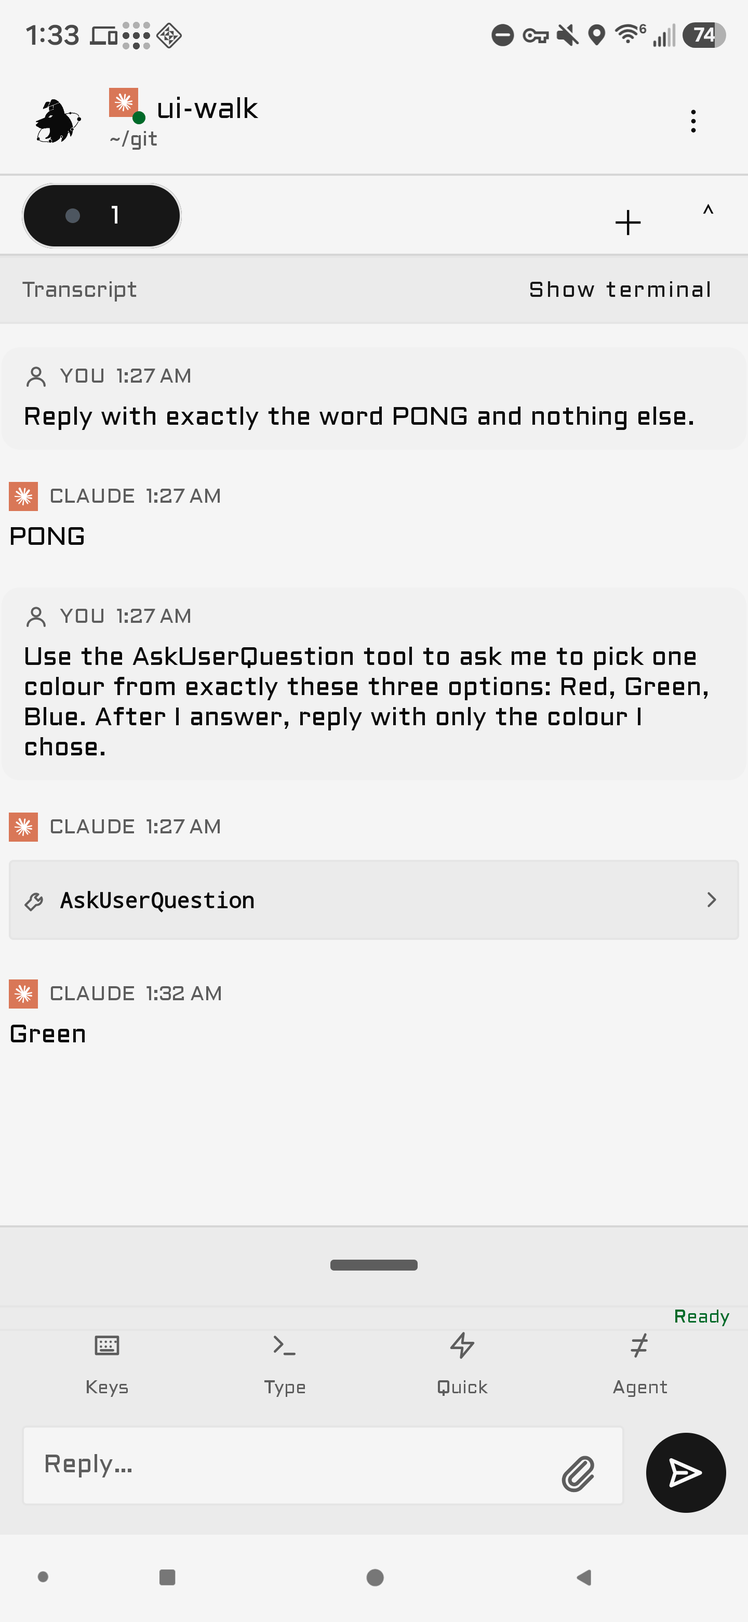
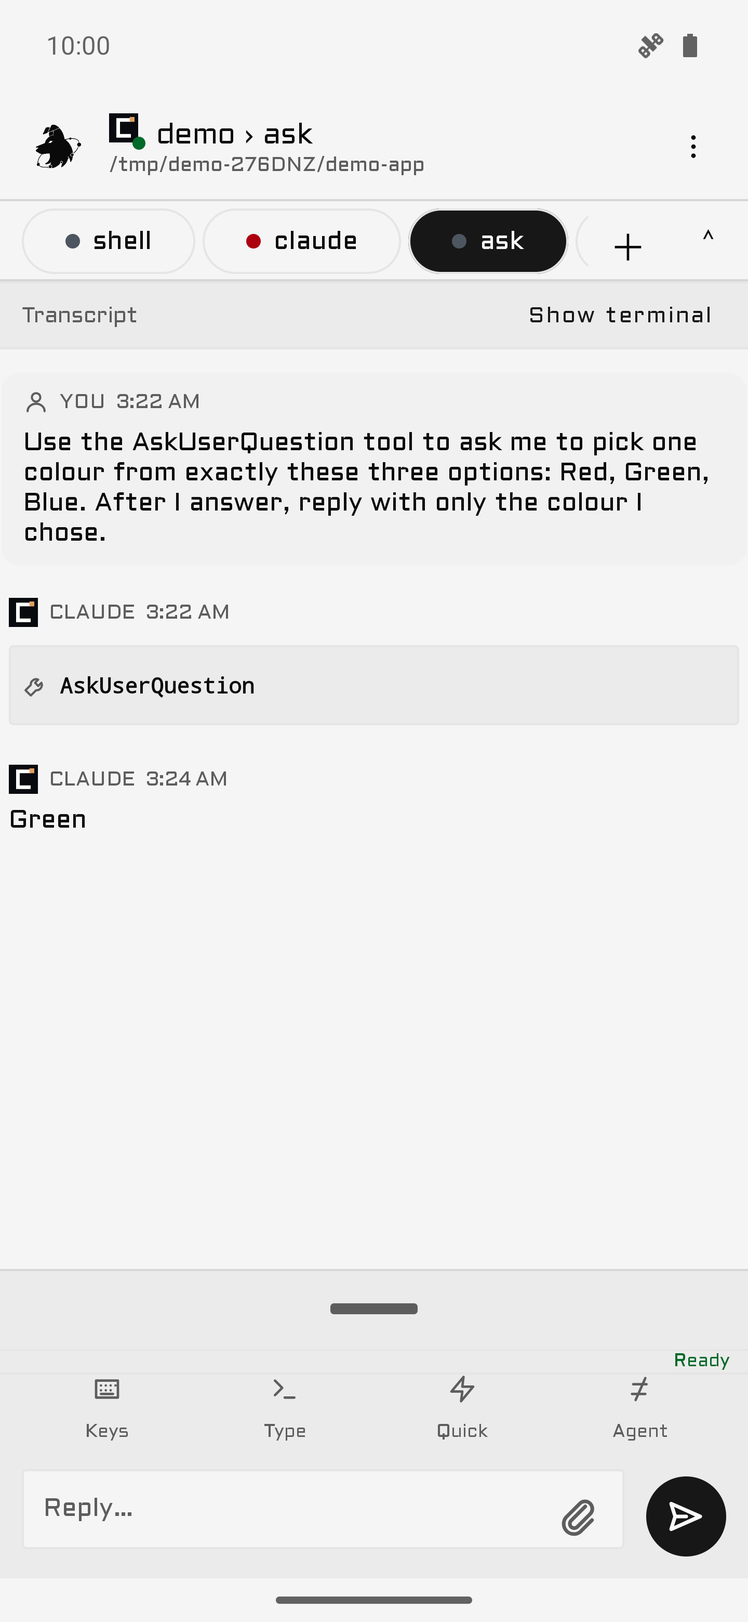
docs(android): acceptance captures use a synthetic session
Claude-Session: https://claude.ai/code/session_01CSE8G3jkjVTnTEWahXMz7Z

diff --git a/ANDROID_CLAUDE_PANE_UX_PROPOSAL.md b/ANDROID_CLAUDE_PANE_UX_PROPOSAL.md
@@ -8,33 +8,41 @@ walk and the resulting decisions.
 
 ## 1. What the phone showed on 2026-09-10
 
-`android/acceptance/2026-09-10-claude-pane-mirror.png` is a Claude pane on the S25 Ultra after a
-short conversation. It is readable, and it is not an acceptable Claude Code display. Read as a
-whole it is a terminal dump with a chat composer under it:
+> **Note.** The 2026-09-10 and 2026-09-11 captures originally showed a real working session, so
+> they were replaced on 2026-10-08 with captures of the current Android build against a synthetic
+> demo session (a fresh temporary git repo, one Claude pane asked for a file listing and a README
+> outline, one shell pane). The files keep their names. This section and the appendices record
+> what the original 2026-09-10 captures showed; where a replacement cannot reproduce a historical
+> state, the text says so.
+
+The original `android/acceptance/2026-09-10-claude-pane-mirror.png` was a Claude pane on the
+S25 Ultra after a short conversation. The file is now a synthetic recapture of the terminal view
+after the fixes below. The original was readable, and it was not an acceptable Claude Code
+display. Read as a whole it was a terminal dump with a chat composer under it:
 
 - **Double wrapping.** Claude renders into a terminal about 100 columns wide and wraps its own
   prose there, indenting continuation lines by two spaces. The phone shows about 65 columns at
-  10 sp and wraps every one of those lines again. Orphan fragments ("rather than re-arguing it,
-  which is") sit on their own line, insight boxes lose their rules, bullets get a continuation
-  indent mid-sentence.
-- **The statusline is raw.** "121350 tokens" floats alone; the git branch `/rc` is orphaned onto
-  its own line by the same re-wrap; "bypass permissions on (shift+tab to cycle) · ← for agents" is
-  a mono paragraph. The web client re-surfaces these rows as styled chrome under the mirror.
-- **Tool rows lose their shape.** "● Read(…)" with its "⎿ Read 519 lines" child is a tree in the
-  terminal. After wrapping, and in the system mono face, the connectors sit at odd offsets and the
-  path is cut mid-word.
-- **The pane title appears twice**, in the header and again as the collapsed tab-strip label
+  10 sp and wrapped every one of those lines again. Orphan fragments sat on their own line,
+  insight boxes lost their rules, bullets got a continuation indent mid-sentence.
+- **The statusline was raw.** A token count floated alone; the git branch and `/rc` were orphaned
+  onto their own line by the same re-wrap; the permission-mode hint was a mono paragraph. The web
+  client re-surfaces these rows as styled chrome under the mirror.
+- **Tool rows lost their shape.** A "● Read(…)" row with its "⎿ Read N lines" child is a tree in
+  the terminal. After wrapping, and in the system mono face, the connectors sat at odd offsets and
+  the path was cut mid-word.
+- **The pane title appeared twice**, in the header and again as the collapsed tab-strip label
   directly beneath it.
-- **The user turn is a grey slab** with a faint marker, indistinguishable from a selection
-  artefact. Assistant prose, insight boxes and tool output all render in one weight and size.
-- **It is a light-grey mono wall.** Claude's own colour cues survive, but at 10 sp on a 6.9 inch
-  screen the transcript reads as a log file, not a conversation.
+- **The user turn was a grey slab** with a faint marker, indistinguishable from a selection
+  artefact. Assistant prose, insight boxes and tool output all rendered in one weight and size.
+- **It was a light-grey mono wall.** Claude's own colour cues survive, but at 10 sp on a 6.9 inch
+  screen the transcript read as a log file, not a conversation.
 
-`android/acceptance/2026-09-10-claude-pane-history.png` is the same pane's History screen, fed by
-Claude's session log through `GET /api/pane/:id/history`: user turns as cards with a name and
-time, assistant prose in the app face, tool calls as collapsible rows, a match counter and
-user-turn navigation. It looks like a native app. The two screens come from the same session;
-only the source differs.
+`android/acceptance/2026-09-10-claude-pane-history.png` is the History screen of the synthetic
+demo pane; the original was the History screen of the same real pane as the mirror capture. It is fed by Claude's
+session log through `GET /api/pane/:id/history`: the user turn as a card with a name and time,
+assistant prose in the app face, tool calls as collapsible rows, and a find button with a
+counter. It looks like a native app. The two screens come from the same session; only the source
+differs.
 
 ## 2. Why the mirror is the wrong default for an agent pane on a phone
 
@@ -111,7 +119,8 @@ Zen, tap-to-type and the buffer affordances follow whichever body is on screen.
 > **Note.** Walked on the S25 Ultra on 2026-09-10 and 2026-09-11 after the plan and its
 > follow-up fixes landed: 193 steps pass and none fail. The ledger, the defects the walk found
 > and fixed, and the mapping of steps the plan moved or retired are in
-> `android/acceptance/2026-09-11-ux-walk.md`; the captures are `android/acceptance/2026-09-11-ux-*.png`.
+> `android/acceptance/2026-09-11-ux-walk.md`; the captures are `android/acceptance/2026-09-11-ux-*.png`,
+> recaptured on 2026-10-08 against a synthetic demo session because the originals showed a real one.
 
 - **Passes.** The Claude pane, re-captured, shows the conversation as cards and prose
   (`2026-09-11-ux-transcript.png`); the terminal view joins soft wraps so no paragraph wraps
@@ -119,7 +128,7 @@ Zen, tap-to-type and the buffer affordances follow whichever body is on screen.
 - **Passes.** An AskUserQuestion raised from the phone switches the body to the mirror with the
   prompt panel, and answering it switches back, without leaving the pane
   (`2026-09-11-ux-dialog-mirror.png`, `2026-09-11-ux-after-answer.png`). A panel the grammar does
-  not recognise, such as `/cost`, is **not** auto-detected: the body stays on the transcript, and
+  not recognise, such as `/theme`, is **not** auto-detected: the body stays on the transcript, and
   the mirror only shows that panel after the operator manually taps "Show terminal" in the pane
   actions sheet (`2026-09-11-ux-panel-mirror.png`).
 - **Passes.** A shell pane, and an agent pane with no journal yet, show the plain mirror with no
@@ -157,9 +166,11 @@ The 2026-09-11 re-walk fixed and rechecked a number of these screens; see
 `android/acceptance/2026-09-11-ux-walk.md` for the dated ledger and captures. Items not covered by
 that ledger remain observations from the original walk rather than verified current defects.
 
-Reviewed from the captures taken during the two S25 Ultra walks on 2026-09-10 (all under
-`android/acceptance/2026-09-10-*.png`; the walk's full set sits in `/tmp/s25/` on workstation). The
-question for each screen is the one asked of the Claude pane: does it read as a native app that
+Reviewed from the captures taken during the two S25 Ultra walks on 2026-09-10. The captures cited
+here are kept under `android/acceptance/2026-09-10-*.png` as synthetic recaptures of the current
+build, because the originals showed a real session and the walk's full set was never published.
+Observations quote the original captures; where the replacement cannot show the same state, the
+bullet says what it shows instead. The question for each screen is the one asked of the Claude pane: does it read as a native app that
 happens to talk to terminals, or as a terminal tool wearing an app's chrome? Functional defects
 found on the walk are already fixed and committed; what follows is design.
 
@@ -169,31 +180,34 @@ The strongest screen. "Nothing needs you", then Needs input, Ready · unseen, Wo
 Spaces: the triage order is right, the cards are quiet, and a blocked pane surfaces in red with a
 badge on Spaces. What holds it back:
 
-- **Titles are session-log names, truncated.** Four of five Working rows read "Codex session log
-  01a0…" with the identifier cut by the ellipsis, so the only distinguishing text is the space
-  beneath. The row should lead with the space and tab and demote the agent's auto-title, or
-  truncate in the middle so the tail of the id survives.
+- **Titles are session-log names, truncated.** In the original capture four of five Working rows
+  read "Codex session log 01a0…" with the identifier cut by the ellipsis, so the only
+  distinguishing text was the space beneath. The row should lead with the space and tab and demote
+  the agent's auto-title, or truncate in the middle so the tail of the id survives. The synthetic
+  recapture has short demo titles and does not reproduce the truncation.
 - **Two ways to collapse, drawn two ways.** Recent has an up-arrow toggle at the left; Spaces has
   the same toggle plus a "+" at the right; Working has none. The sort control ("Newest ↓") is a
   text button in a header row otherwise made of icons.
-- **The Spaces list is the app's longest surface and the least informative.** Fourteen rows of
-  name, age and a pane count in a grey pill. Nothing says which panes are working, blocked or
+- **The Spaces list is the app's longest surface and the least informative.** In the original,
+  fourteen rows of name, age and a pane count in a grey pill (the recapture has two spaces). Nothing says which panes are working, blocked or
   done inside a space, which is the question the operator has when scanning it.
 - **The build stamp** ("Android app build 1.5.1-debug") sits in the scroll body of every list
   screen. It belongs in Settings only.
 
 ### A.2 Space (`2026-09-10-space.png`)
 
-Three horizontal strips stack under the header before any content: SPACES chips, then tab chips,
-then the overview title. That is 40% of the first screen spent on navigation the dashboard
-already did. Specifics:
+In the original capture three horizontal strips stacked under the header before any content:
+SPACES chips, then tab chips, then the overview title. That was 40% of the first screen spent on
+navigation the dashboard already did. The synthetic recapture shows the current build, which has
+the header, one tab strip and the pane cards, and no spaces strip or overview card. Specifics of
+the original:
 
 - **The spaces strip repeats the dashboard.** A "← Back" chip and every other space, when the
   operator just chose this one. A back arrow in the header and the current space's name is
   enough; the sibling switch belongs in the pane switcher, which already lists them.
-- **The tab chips truncate at the screen edge** ("track-guide-prose" clipped, the "+" half
-  visible) with no affordance that the row scrolls.
-- **The overview card** ("StormLens · 3 tabs · 3 panes") restates the header.
+- **The tab chips truncate at the screen edge** (the last chip clipped, the "+" half visible)
+  with no affordance that the row scrolls.
+- **The overview card** ("<space> · N tabs · M panes") restated the header.
 - **Pane cards say "shell" three times.** A card should show something that distinguishes the
   panes: the last command, the cwd difference, or the tab name in the card rather than as a
   small grey label above it.
@@ -212,10 +226,12 @@ Better than the Claude pane because a shell's grid is the information. Still:
 
 ### A.4 Keys drawer (`2026-09-10-keys-drawer.png`)
 
-Functionally complete and now correct; visually it is the busiest surface in the app. In one
-drawer: a Keys/123 segment, a staged-chip row with Send keys and Clear, eight key buttons, a full
-width Space bar, three modifier toggles, a Presets disclosure, a Function keys disclosure. Opened,
-it covers two thirds of the screen and leaves one line of terminal. The modifiers read as plain
+The original was functionally complete and now correct; visually it was the busiest surface in the
+app. In one drawer: a Keys/123 segment, a staged-chip row with Send keys and Clear, eight key
+buttons, a full width Space bar, three modifier toggles, a Presets disclosure, a Function keys
+disclosure. Opened, it covered two thirds of the screen and left one line of terminal. The
+synthetic recapture shows the current compact drawer: one row of keys, the modifiers and a More
+button that opens the presets sheet. The modifiers read as plain
 text ("⇧ Shift  Ctrl  Alt") until armed, so their tappability is not visible. A phone keyboard
 solves the same problem with one row and a long-press: Ctrl and Alt as sticky keys on the mode
 row, arrows and Esc/Tab/Enter as one compact row, Presets and F-keys behind a single "More".
@@ -233,8 +249,10 @@ row, arrows and Esc/Tab/Enter as one compact row, Presets and F-keys behind a si
 ### A.6 Switcher (`2026-09-10-switcher.png`)
 
 Rows carry space · tab on one line and agent · title on the next, so the identifier walls from
-the dashboard return here at three lines per row. The current pane is not marked. Working is a
-plain grey heading; Recent is a collapsible pill; the two groups look like different controls.
+the dashboard return here at three lines per row. In the original the current pane was not
+marked; the synthetic recapture shows the current build, which marks it with a dark pill. Working
+is a plain grey heading; Recent is a collapsible pill; the two groups look like different
+controls.
 
 ### A.7 History (`2026-09-10-claude-pane-history.png`)
 
@@ -300,9 +318,11 @@ A missed. Cited captures are saved under `android/acceptance/`.
 
 ### B.1 Space (`2026-09-10-space-strip-missing-current.png`)
 
-- **The spaces strip does not contain the current space.** Viewing `collie-ui-test`, the strip
-  reads "← Back · StormLens · flock · pitwall · pen …" and the current space is off-screen to the
-  right, unselected. A strip that exists to show where you are does not show where you are.
+- **The spaces strip did not contain the current space.** In the original capture the strip read
+  "← Back" followed by other spaces, and the current space was off-screen to the right,
+  unselected. A strip that exists to show where you are did not show where you are. That state
+  cannot be reproduced: the current build has no sibling strip, so the replacement capture shows
+  the Space screen with all of its tabs.
 - The current space's chips carry status dots and agent icons on the Space screen but the strip
   chips carry only a dot, so the two rows encode the same panes two ways.
 
@@ -317,15 +337,20 @@ A missed. Cited captures are saved under `android/acceptance/`.
 - **Type mode says the same thing twice and hides its stop.** The field hint becomes "Typing
   directly into terminal…" and a second label "Direct terminal typing armed" appears under it,
   while the Send button, now a stop control, keeps the paper-plane icon.
-- **An attached image is a file path in the draft** (`2026-09-10-upload-path-in-draft.png`): after
-  the picker, the composer holds `$HOME/.local/state/collie/uploads/wM_p1-….png` across three
-  lines with "Image added — path in message." beneath. That is the bridge's storage location shown
-  to the operator; an attachment should be a chip or thumbnail the send expands.
+- **An attached image was a file path in the draft**: after the picker, the original composer held
+  the bridge's upload path across three lines with "Image added — path in message." beneath.
+  That was the bridge's storage location shown to the operator; an attachment should be a chip or
+  thumbnail the send expands. The current build does that, and
+  `2026-09-10-upload-path-in-draft.png` is a synthetic recapture of it: the draft holds only the
+  operator's words and the attachment is an "Image" chip with a thumbnail beneath the composer.
 - **Staged key chips overflow with no cue.** Four chips fill the row and the fourth is clipped at
   the edge; the row scrolls, but nothing indicates it.
-- **Presets expanded leaves zero terminal rows** (`2026-09-10-keys-presets-no-terminal.png`). The
-  drawer, the mode row and the composer take the whole screen; the terminal the keys act on is not
-  visible at all, so the effect of Ctrl R or Ctrl U cannot be seen without closing the drawer.
+- **Presets expanded left zero terminal rows.** In the original the drawer, the mode row and the
+  composer took the whole screen; the terminal the keys act on was not visible at all, so the
+  effect of Ctrl R or Ctrl U could not be seen without closing the drawer.
+  `2026-09-10-keys-presets-no-terminal.png` is a synthetic recapture of the current build, where
+  presets and function keys open in their own sheet and the header, tab strip and terminal rows
+  stay visible above it.
 - **Tree connectors render with the wrong glyph.** Claude's "⎿" child marker draws as a hooked
   "⌊" with a gap in the system mono face, which lacks the box-drawing coverage. This is the one
   place a bundled mono face is warranted, not as a picker but as the mirror's face.
@@ -339,8 +364,10 @@ A missed. Cited captures are saved under `android/acceptance/`.
 - **Worktree creation is three sheets for one input.** Repository choice (one option, `collie-app`),
   then a sheet whose only content is "Create new branch", then the branch field. The final sheet
   says nothing about where the worktree will be made or from which base.
-- **Disconnect is a black button with red text** (`2026-09-10-disconnect-sheet.png`) under a body
-  of grey prose. A destructive confirm needs a red fill or a red outline, not red on black.
+- **Disconnect was a black button with red text** under a body of grey prose. A destructive
+  confirm needs a red fill or a red outline, not red on black. `2026-09-10-disconnect-sheet.png`
+  is a synthetic recapture of the current build, where the confirm is a solid red button; the
+  server address in it is covered by a box.
 
 ### B.4 Settings and pairing (captures 107, 110, 115, 216, 217)
 

diff --git a/android/validation/hardening/history-assets-review.md b/android/validation/hardening/history-assets-review.md
@@ -42,14 +42,46 @@ Current reviewer evidence under [`android/validation/hardening/`](../../../andro
 
 ## Visual asset review
 
-`REVIEW-NEEDED`: several committed Android acceptance screenshots contain real pane transcripts, commands, local checkout paths, endpoint/device labels, or pairing/settings context. Examples include:
+`FIX`: the committed Android acceptance screenshots were checked one by one, and every one that showed a real pane transcript, command, local path, host, device label or pairing detail was replaced. All 32 files in `android/acceptance/*.png` were opened and classified. 29 were `private` and have been recaptured under the same file name; 3 were `clean` and are unchanged.
 
-- [`android/acceptance/2026-09-10-claude-pane-history.png`](../../../android/acceptance/2026-09-10-claude-pane-history.png), introduced at `c722cd88333223435511c400762a5591028c9129`.
-- [`android/acceptance/2026-09-10-claude-pane-mirror.png`](../../../android/acceptance/2026-09-10-claude-pane-mirror.png), introduced at `c722cd88333223435511c400762a5591028c9129`.
-- [`android/acceptance/2026-09-10-disconnect-sheet.png`](../../../android/acceptance/2026-09-10-disconnect-sheet.png) and [`android/acceptance/2026-09-10-upload-path-in-draft.png`](../../../android/acceptance/2026-09-10-upload-path-in-draft.png), introduced at `82fcfe7be32ca98349fc99089447cce9ff2c12a5`.
-- [`android/acceptance/2026-09-11-ux-transcript.png`](../../../android/acceptance/2026-09-11-ux-transcript.png), [`android/acceptance/2026-09-11-ux-mirror-reflow.png`](../../../android/acceptance/2026-09-11-ux-mirror-reflow.png), and [`android/acceptance/2026-09-11-ux-panel-mirror.png`](../../../android/acceptance/2026-09-11-ux-panel-mirror.png), introduced at `bc9cb5a2756cebd82127d807f94023572e8dd23d`.
+The recaptures are of the current debug build, running on an emulator against a synthetic session: a throwaway Collie bridge and Herdr session, one `demo` space whose directory is a fresh temporary git repository, a shell pane that prints a few public fixture files, and Claude panes asked for a file listing and a README outline. The emulator was paired as `demo-phone` and the bridge, session and emulator were removed afterwards. Three screens show the server's tailnet address (`2026-09-10-disconnect-sheet.png`, `2026-09-11-ux-disconnect.png`, `2026-09-11-ux-settings-paired.png`); there the address text is covered by a solid rectangle in the surface colour and the result was read back to confirm that it is unreadable. Some historical states cannot be reproduced on the current build (a spaces strip that omitted the current space, presets that left no terminal rows, an upload path pasted into the draft, the preflight list on the updates screen); those files hold the closest current screen, and `ANDROID_CLAUDE_PANE_UX_PROPOSAL.md` says so where it cites them.
 
-I did not identify a credential in the inspected screenshots. Their transcript and private deployment/device information still make them private acceptance artifacts rather than safe public marketing images. No screenshot was edited or removed. Other raster assets reviewed are Collie marks, icons, banners, update UI, or synthetic demo content; no live terminal or endpoint disclosure was found in that group.
+The earlier captures remain in Git history at the commits that introduced them (for example `c722cd88333223435511c400762a5591028c9129`, `82fcfe7be32ca98349fc99089447cce9ff2c12a5` and `bc9cb5a2756cebd82127d807f94023572e8dd23d`); only the tip carries the synthetic files. I did not identify a credential in the earlier screenshots. Other raster assets reviewed are Collie marks, icons, banners, update UI, or synthetic demo content; no live terminal or endpoint disclosure was found in that group.
+
+Per-file classification:
+
+- [`2026-09-10-claude-pane-history.png`](../../../android/acceptance/2026-09-10-claude-pane-history.png): `private → recaptured`. Real session transcript, commands and a checkout path.
+- [`2026-09-10-claude-pane-mirror.png`](../../../android/acceptance/2026-09-10-claude-pane-mirror.png): `private → recaptured`. Real session transcript, checkout paths, host and user name.
+- [`2026-09-10-dashboard.png`](../../../android/acceptance/2026-09-10-dashboard.png): `private → recaptured`. Real space, tab and session names.
+- [`2026-09-10-disconnect-sheet.png`](../../../android/acceptance/2026-09-10-disconnect-sheet.png): `private → recaptured`. Server hostname, device labels; recapture has the address boxed out.
+- [`2026-09-10-keys-drawer.png`](../../../android/acceptance/2026-09-10-keys-drawer.png): `private → recaptured`. Real pane name and home-directory path.
+- [`2026-09-10-keys-presets-no-terminal.png`](../../../android/acceptance/2026-09-10-keys-presets-no-terminal.png): `private → recaptured`. Real pane name; historical zero-terminal-rows state, replaced by the closest current screen.
+- [`2026-09-10-settings.png`](../../../android/acceptance/2026-09-10-settings.png): `clean`. Collie settings chrome only.
+- [`2026-09-10-space-strip-missing-current.png`](../../../android/acceptance/2026-09-10-space-strip-missing-current.png): `private → recaptured`. Real space names; historical strip bug, replaced by the closest current screen.
+- [`2026-09-10-space.png`](../../../android/acceptance/2026-09-10-space.png): `private → recaptured`. Real space, tab and checkout names.
+- [`2026-09-10-switcher.png`](../../../android/acceptance/2026-09-10-switcher.png): `private → recaptured`. Real pane titles, session identifiers and repository names.
+- [`2026-09-10-upload-path-in-draft.png`](../../../android/acceptance/2026-09-10-upload-path-in-draft.png): `private → recaptured`. Real checkout path and upload path with the user's home directory; the old path-in-draft state is replaced by the current attachment chip.
+- [`2026-09-11-ux-after-answer.png`](../../../android/acceptance/2026-09-11-ux-after-answer.png): `private → recaptured`. Real pane name and home-directory path.
+- [`2026-09-11-ux-attach-chip.png`](../../../android/acceptance/2026-09-11-ux-attach-chip.png): `private → recaptured`. Real branch name and checkout path.
+- [`2026-09-11-ux-close-confirm.png`](../../../android/acceptance/2026-09-11-ux-close-confirm.png): `private → recaptured`. Real transcript, pane name and checkout path.
+- [`2026-09-11-ux-dashboard.png`](../../../android/acceptance/2026-09-11-ux-dashboard.png): `private → recaptured`. Real space, tab and session names.
+- [`2026-09-11-ux-dialog-mirror.png`](../../../android/acceptance/2026-09-11-ux-dialog-mirror.png): `private → recaptured`. Real pane name, home-directory path and prompt.
+- [`2026-09-11-ux-disconnect.png`](../../../android/acceptance/2026-09-11-ux-disconnect.png): `private → recaptured`. Server hostname and device labels; recapture has the address boxed out.
+- [`2026-09-11-ux-fresh-transcript.png`](../../../android/acceptance/2026-09-11-ux-fresh-transcript.png): `private → recaptured`. Real pane name and home-directory path.
+- [`2026-09-11-ux-keys.png`](../../../android/acceptance/2026-09-11-ux-keys.png): `private → recaptured`. Real transcript with checkout paths and shell commands.
+- [`2026-09-11-ux-mirror-reflow.png`](../../../android/acceptance/2026-09-11-ux-mirror-reflow.png): `private → recaptured`. Real transcript, commands, checkout paths, host and user name.
+- [`2026-09-11-ux-needs-input.png`](../../../android/acceptance/2026-09-11-ux-needs-input.png): `private → recaptured`. Real space, tab and session names.
+- [`2026-09-11-ux-panel-mirror.png`](../../../android/acceptance/2026-09-11-ux-panel-mirror.png): `private → recaptured`. Real pane name, path and usage panel.
+- [`2026-09-11-ux-settings-paired.png`](../../../android/acceptance/2026-09-11-ux-settings-paired.png): `private → recaptured`. Server hostname, device labels and server build; recapture has the address boxed out.
+- [`2026-09-11-ux-settings-unpaired.png`](../../../android/acceptance/2026-09-11-ux-settings-unpaired.png): `private → recaptured`. Device label and pairing form.
+- [`2026-09-11-ux-space.png`](../../../android/acceptance/2026-09-11-ux-space.png): `private → recaptured`. Real space, tab and session names.
+- [`2026-09-11-ux-switcher-current.png`](../../../android/acceptance/2026-09-11-ux-switcher-current.png): `private → recaptured`. Real pane titles, repository names and paths.
+- [`2026-09-11-ux-transcript.png`](../../../android/acceptance/2026-09-11-ux-transcript.png): `private → recaptured`. Real transcript, commands and a temporary-directory path.
+- [`2026-09-11-ux-updates.png`](../../../android/acceptance/2026-09-11-ux-updates.png): `private → recaptured`. Real checkout path, uncommitted file names and remote URL; the recapture shows the current updates screen instead of the preflight list.
+- [`2026-09-11-ux-zen.png`](../../../android/acceptance/2026-09-11-ux-zen.png): `clean`. Only a one-word test prompt and its reply.
+- [`web-dashboard-480x1040.png`](../../../android/acceptance/web-dashboard-480x1040.png): `private → recaptured`. Real space, tab and session names.
+- [`web-pane-shell-480x1040.png`](../../../android/acceptance/web-pane-shell-480x1040.png): `private → recaptured`. Real checkout path and branch name.
+- [`web-settings-480x1040.png`](../../../android/acceptance/web-settings-480x1040.png): `clean`. Collie settings chrome only.
 
 ## APK asset provenance and packaged notices
 

diff --git a/docs/superpowers/plans/2026-09-10-android-claude-pane-ux.md b/docs/superpowers/plans/2026-09-10-android-claude-pane-ux.md
@@ -1194,7 +1194,7 @@ CHANGELOG line: `- Web: the Claude mirror joins the grid's soft wraps so a parag
 - Create: `web/src/fixtures/panes/claude--soft-wrapped-paragraph.txt`
 - Modify: `web/src/lib/harness/claude/reflow.test.ts`
 
-The fixture is the Herdr read behind `android/acceptance/2026-09-10-claude-pane-wrap.png` (the capture §1 of the proposal cites). Take it from the phone-visible pane via the bridge: `curl -s -H "Authorization: Bearer $(bin/collie devices token S25U-native 2>/dev/null || true)" https://collie.example-tailnet.ts.net/api/pane/<id>` is not available without the credential, so use the Herdr socket read the bridge uses: `herdr pane read <id> --lines 80` on workstation, saving the `text` field. If the pane no longer exists, reproduce: open a Claude pane, send "Explain in two paragraphs how Herdr's pane read works", wait for the answer, then read.
+The fixture is the Herdr read of a Claude pane whose paragraphs show the double wrapping that §1 of the proposal describes. The capture that showed it is not kept: it came from a real session, and `android/acceptance/2026-09-10-claude-pane-mirror.png` is now a synthetic recapture of the fixed build. Take it from the phone-visible pane via the bridge: `curl -s -H "Authorization: Bearer $(bin/collie devices token S25U-native 2>/dev/null || true)" https://collie.example-tailnet.ts.net/api/pane/<id>` is not available without the credential, so use the Herdr socket read the bridge uses: `herdr pane read <id> --lines 80` on workstation, saving the `text` field. If the pane no longer exists, reproduce: open a Claude pane, send "Explain in two paragraphs how Herdr's pane read works", wait for the answer, then read.
 
 - [ ] **Step 1: Failing test** (append)
 
@@ -1239,7 +1239,7 @@ CHANGELOG line: `- Web: a phone-width Claude capture pins the soft-wrap reflow.`
 **Interfaces:**
 - The `spaces_strip` row is removed. The header shows a back arrow and the current space's name (existing `pane_header` pattern). Sibling switching moves to the switcher, which already lists spaces (A.2). The `+` (new space) moves to the tab strip's end after the `+ tab` button, keeping `SpaceActionModel.canUse(..., "createSpace")`.
 - `renderTabStrip` marks the current tab with `active=true` and, after `addView`, posts `binding.tabsStrip.post { binding.tabsStrip.smoothScrollTo(chip.left - 24.dp, 0) }` for the active chip so it is on screen (B.1's rule applied to the strip that remains). The strip's `HorizontalScrollView` gets `requiresFadingEdge="horizontal"` and `fadingEdgeLength="24dp"` as the scroll cue.
-- The overview card ("StormLens · 3 tabs · 3 panes") is removed; the header subtitle carries `N tabs · M panes`.
+- The overview card ("<space> · N tabs · M panes") is removed; the header subtitle carries `N tabs · M panes`.
 - Pane cards show the tab name inside the card's metadata line and the last non-blank mirror line (`PaneSummary.preview` if the wire has it; else `terminalTitle`) instead of "shell" three times.
 
 - [ ] **Step 1: Failing tests**
@@ -1629,7 +1629,7 @@ CHANGELOG line: `- Android: Updates counts releases behind, shows the blocked re
   - Dashboard: rows lead with space › tab; chevrons; Spaces rows show counts; switcher marks current pane.
   - Settings unpaired (revoke `S25U-native` with `bin/collie devices revoke`, then re-pair with `bin/collie pair`): pairing card first, outlined field; paired: no pairing card, red Disconnect, Unpair label.
   - Updates: "N releases behind", Remind button, blocked reason line.
-- [ ] **Step 5: Commit** the captures and the ticked §6 list.
+- [ ] **Step 5: Commit** the captures and the ticked §6 list. The captures that were committed from the real S25 session were later replaced with synthetic ones from a demo session (2026-10-08); their file names are unchanged, and the proposal's §1, §6 and appendices say what each one now shows.
 
 ```bash
 git add android/acceptance ANDROID_CLAUDE_PANE_UX_PROPOSAL.md
